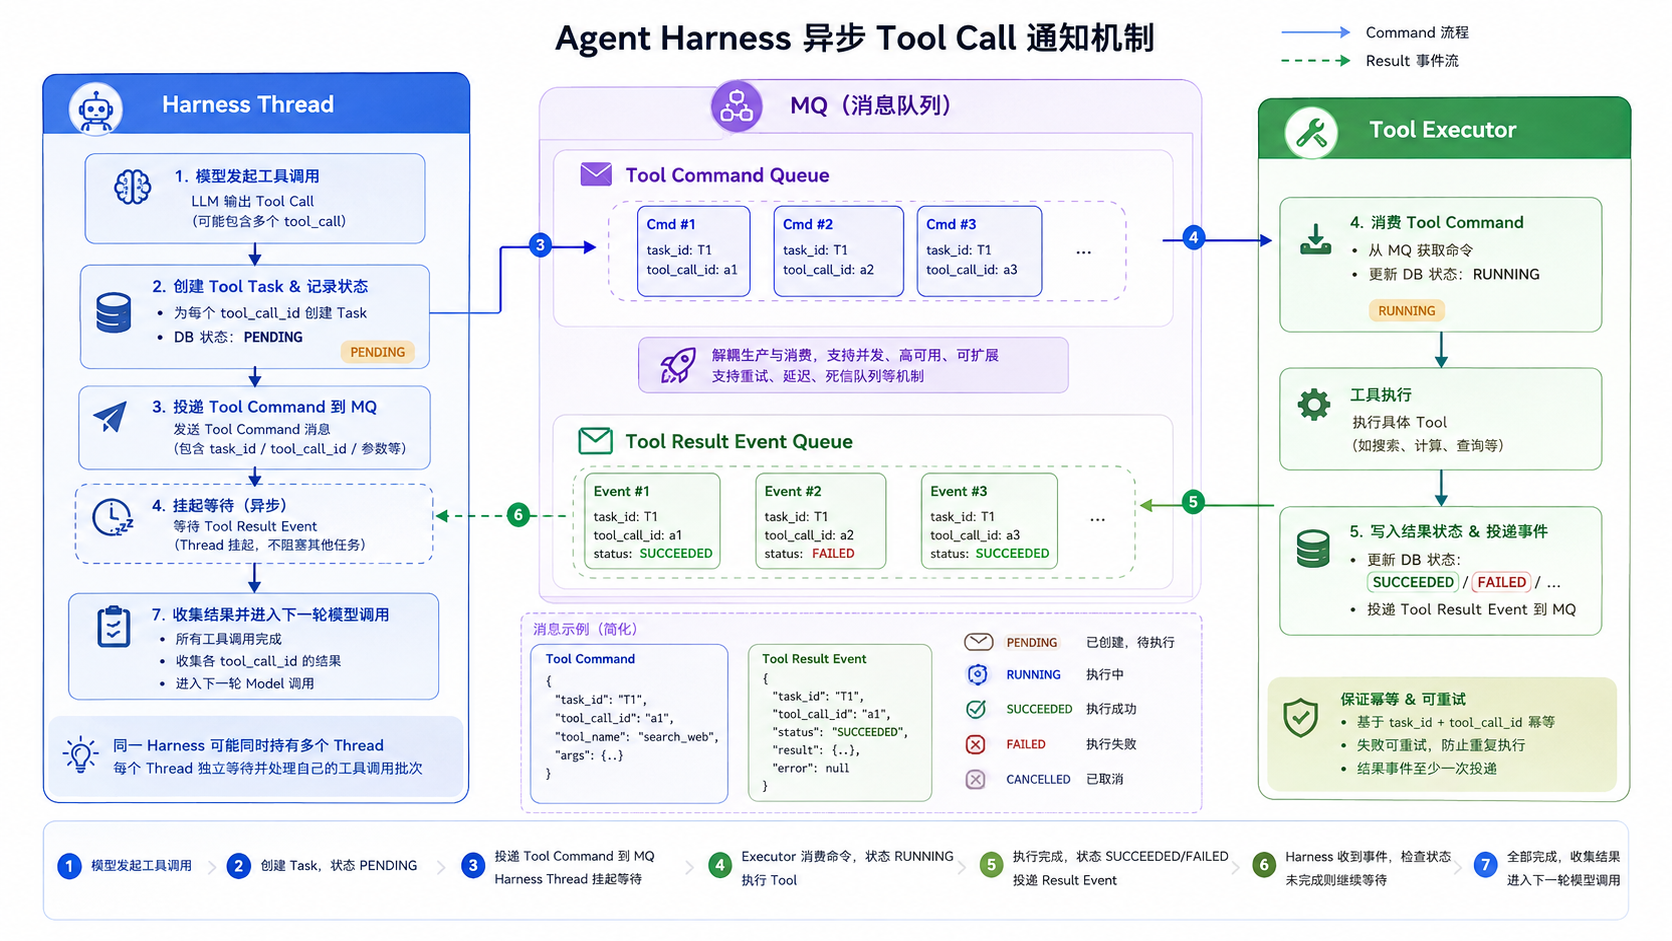
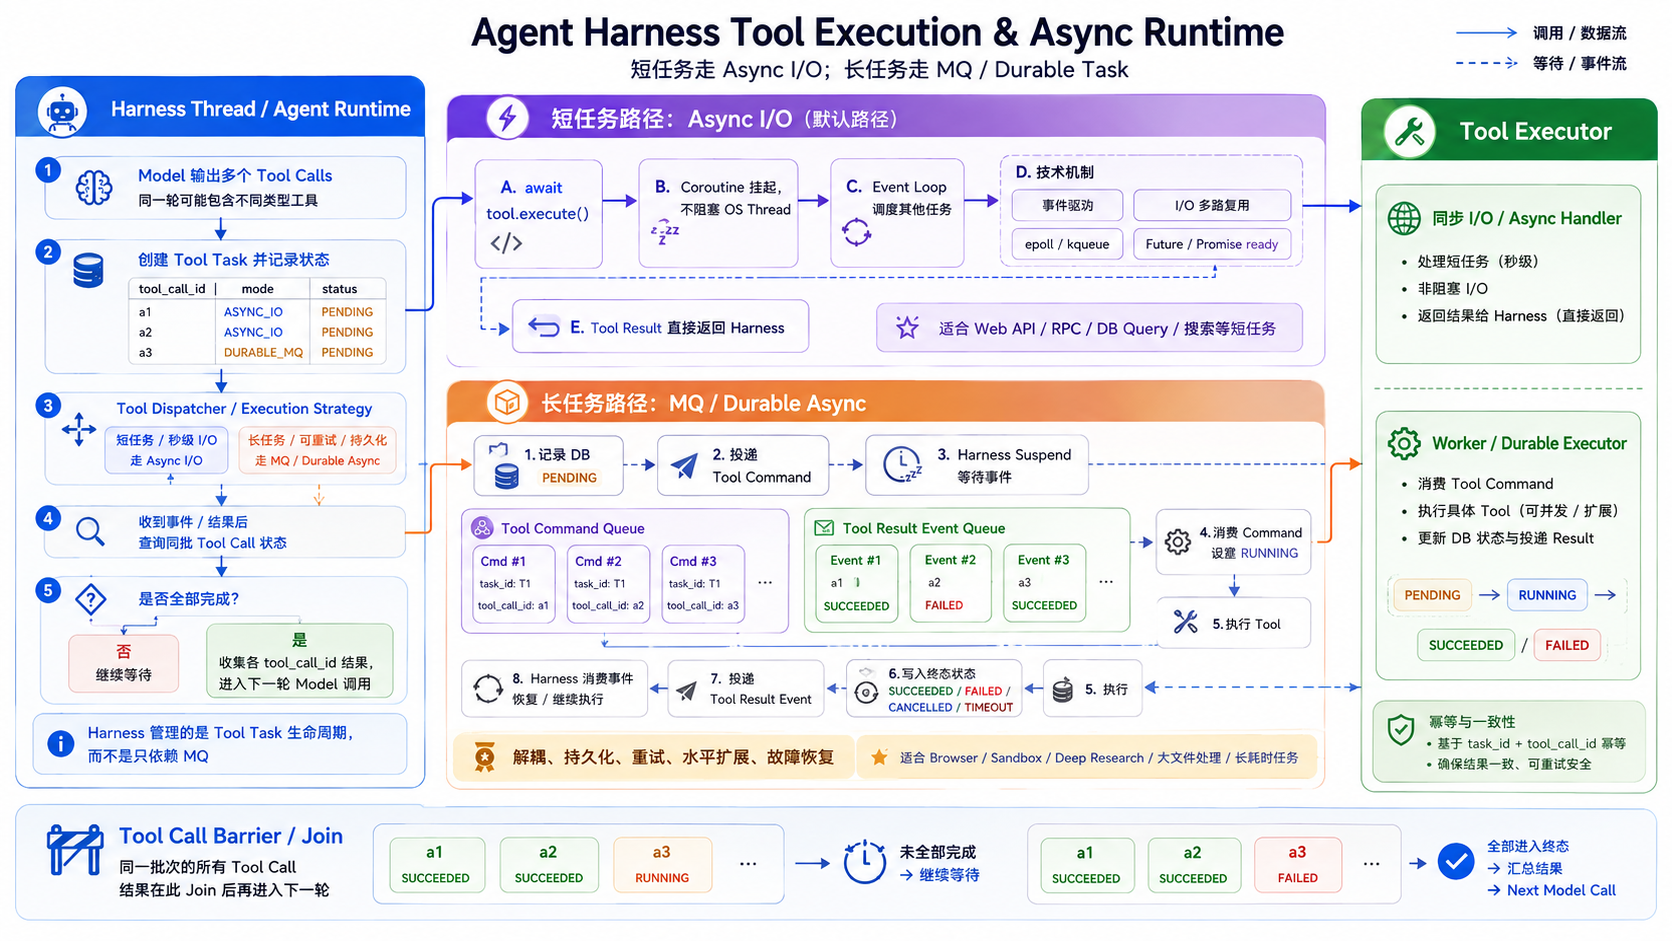
docs: refine async tool execution flow

Changed region(s): [[0.0, 0.0, 0.9952, 0.9554]]

diff --git a/AG.md b/AG.md
@@ -526,57 +526,69 @@ Context → Model → Tool Call
 
 ### 工具完成如何驱动下一轮：异步通知
 
-模型一次可以输出多个带 `tool_call_id` 的 Tool Call，但它不会观察工具执行过程。Harness 为同一轮调用创建 `step_id`，并为每个 Tool Call 持久化状态；状态表是事实来源：
+模型一次可以输出多个 Tool Call，但它不会观察执行过程。Harness 必须异步执行 Tool / Subagent：任务运行时挂起当前协程，结果到达后再通过事件唤醒；如果同步阻塞或持续轮询，会长期占用线程、连接与计算资源。
 
 ![Agent Harness 异步 Tool Call 通知机制](figures/agent-harness-async-tool-notification.png)
 
-```text
-tool_call_id | step_id | tool_name | status  | result / error | deadline
-call_search  | step_7  | search    | RUNNING | —              | ...
-call_read    | step_7  | read_file | SUCCEEDED | {...}        | ...
-```
+| 任务类型 | 实现方式 | 适用场景 |
+|---|---|---|
+| 短任务 | Async I/O：`await`、Event Loop、I/O 多路复用、Future/Promise 完成事件 | Web API、RPC、数据库查询、搜索等秒级任务 |
+| 长任务 | MQ / Durable Task：任务持久化后由 Worker 消费，完成后投递 Result Event | Browser、Sandbox、Deep Research、大文件处理等长耗时任务 |
 
 ```text
-模型输出多个 Tool Call
-→ Harness 协程创建任务，落库：PENDING，并向 Tool Command Topic 投递 tool_call.created
-→ Harness 协程注册 step_id 的完成事件，进入 WAITING_TOOL_RESULTS 后挂起
-→ Tool Executor Consumer Group 消费命令，原子领取：PENDING → RUNNING
-→ Executor 调用真实 Tool / MCP / Subagent，写回 SUCCEEDED / FAILED / TIMEOUT + Result
-→ Executor 向 Tool Result Topic 投递 tool_call.finished（thread_id, step_id, tool_call_id）
-→ Runtime / Result Aggregator 消费完成事件，唤醒该 step 对应的 Harness 协程
-   ├─ 仍有 RUNNING：协程再次挂起
-   └─ 全部终态 / 到达总 deadline：查询状态表、按 tool_call_id 收集结果，进入下一轮 Model Call
+短任务：Harness await Tool → 协程挂起 → I/O Ready 事件 → 唤醒并返回 Result
+
+长任务：Harness 记录 PENDING → 投递 MQ → Worker 执行
+       → 写回终态并投递 Result Event → 唤醒 Harness
 ```
 
-```text
-Harness Thread。                  MQ                         Tool Executor
-─────────────────                 ──                         ─────────────
-创建 ToolTask + 注册等待器
-投递 Tool Command        ───→    Command Topic       ───→   消费并执行 Tool
-await step_finished()                                      →   写回状态 + Result
-                                  Result Topic        ←───   投递完成事件
-消费完成事件             ←───
-查询 step 状态
-  ├─ 未收齐：再次 await
-  └─ 已收齐：按 tool_call_id 回填结果 → Model
-```
+#### 短任务：Async I/O 足够
+
+Web API、RPC、数据库查询等任务通常在一个连接生命周期内结束。Harness 调用 `await tool.execute()` 后，协程会让出执行权，由 Event Loop 继续调度其他 Thread；底层 I/O Ready 或 Future 完成时，再将原协程放回 Ready Queue。这里“挂起”的是协程，不是阻塞 OS Thread，因此一个 Runtime 可以同时承载大量等待中的 Tool Call。
 
 ```python
-async def wait_tool_batch(thread_id, step_id):
-    subscription = mq.subscribe(
-        topic="tool_call.finished",
-        key=f"{thread_id}:{step_id}",
-        durable=True,
-    )  # 先订阅 Result Topic，再投递 Tool Command
-    while True:  # 每次循环由完成事件唤醒，不是主动轮询
-        await subscription.next()
-        calls = state_store.list_tool_calls(step_id)
-        if all(call.status in TERMINAL for call in calls):
-            return to_tool_messages(calls)  # 保留 tool_call_id
+async def run_short_tool(call):
+    state_store.mark_running(call.id)
+    try:
+        result = await asyncio.wait_for(
+            tool_executor.execute(call), timeout=call.timeout
+        )
+        state_store.mark_succeeded(call.id, result)
+    except asyncio.TimeoutError:
+        state_store.mark_timeout(call.id)
+    except Exception as error:
+        state_store.mark_failed(call.id, error)
+    finally:
+        completion_event.notify(call.step_id, call.id)
 ```
 
-状态表记录事实，MQ  负责投递命令与完成通知；消息重复时按 `thread_id + step_id` 幂等检查即可。
-正常结果回传不轮询；仅由独立的**低频定时扫描器**兜底检查超时、过期租约或通知丢失，并将对应任务标记为 `TIMEOUT`、重试或故障接管。
+#### 长任务：MQ 完全解耦
+
+Browser、Sandbox、Deep Research 或大文件处理可能运行数分钟甚至更久。如果 Harness 一直维持 HTTP / RPC 连接，容易受到连接超时、实例重启和扩缩容迁移影响。更稳妥的方式是先持久化 Task，再投递 Command；Worker 独立消费和执行，完成后写回状态并投递 Result Event。Harness 可以释放当前请求资源，之后由完成事件重新调度对应 Thread。
+
+```text
+Harness：Task=PENDING → Command Queue
+Worker ：消费 Command → RUNNING → 执行 → 写 Result / 终态
+Worker ：Result Event Queue → Runtime 唤醒对应 Thread
+```
+
+MQ 在这里不仅负责通知，还提供生产者与 Worker 的完全解耦、任务持久化、失败重试和削峰填谷。流量突增时任务先在队列中积压，Worker 按自身并发能力平稳消费，不会把压力直接传到 Tool 服务。
+
+#### 多个结果如何收敛：Barrier / Join
+
+同一轮多个 Tool Call 共享 `step_id`，每个调用使用独立 `tool_call_id`。任一完成事件都会唤醒 Harness 检查批次状态；还有 `PENDING / RUNNING` 就继续挂起，全部进入终态后，才按 `tool_call_id` 收集 Result 并开始下一轮 Model Call。Subagent 同理，只是聚合键从 Tool Batch 换成父任务下的 `task_id` 集合。
+
+#### 心跳：只负责异常兜底
+
+无论走哪条路径，Tool / Task 都应记录 `PENDING → RUNNING → SUCCEEDED / FAILED / CANCELLED / TIMEOUT`，长任务 Worker 还要定期更新 `last_heartbeat`。后台心跳任务周期检查：
+
+```text
+now > deadline                   → TIMEOUT
+now - last_heartbeat > threshold → Worker 失联，取消 / 重试 / 故障接管
+状态已终结但通知未消费           → 补发完成事件
+```
+
+正常结果依靠事件通知立即返回；心跳扫描只处理超时、失联、通知丢失等异常，不让每个 Harness Thread 自己轮询任务状态。
 
 ### 用户打断：取消而不是等待自然结束
 
@@ -1671,7 +1683,7 @@ run_tasks: queued
 Subagent A      Subagent B      Subagent C
 ```
 
-子任务和 Tool Call 使用同一套收敛思路：Lead Agent 的 Harness 协程创建 `run_tasks`（`queued → running → completed / failed / timeout`）并挂起等待；Subagent 完成后写入结果、投递 `subtask.finished` 事件，Runtime 消费事件后唤醒父任务。Lead 按 `parent_task_id` 查询本轮所有子任务；尚未结束则再次挂起，满足 `wait_all`、总 deadline 或“关键子任务完成”等 join 条件时，才将各 `task_id` 对应结果汇总进 Lead 的下一轮 Context。正常结果回传不靠 Lead 主动轮询；轮询仅用于超时、租约过期和通知丢失的故障兜底。
+Subagent 与 Tool 共用同一套异步机制：短子任务可由 Harness 异步调度并等待完成事件；长子任务持久化后交给 MQ / Durable Worker。Subagent 完成后发送 Result Event 唤醒 Lead，Lead 在 Join 条件满足后汇总结果；后台心跳只负责发现超时、失联和异常任务，不承担正常结果轮询。
 
 ## 6.1 Subagent 独立执行
 
